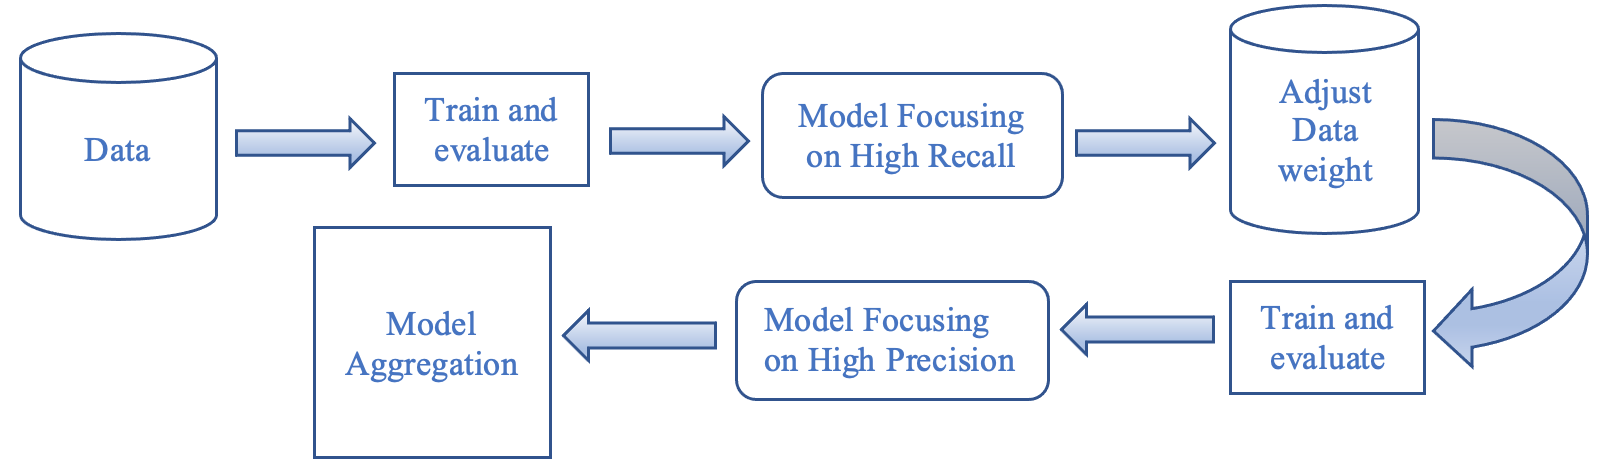
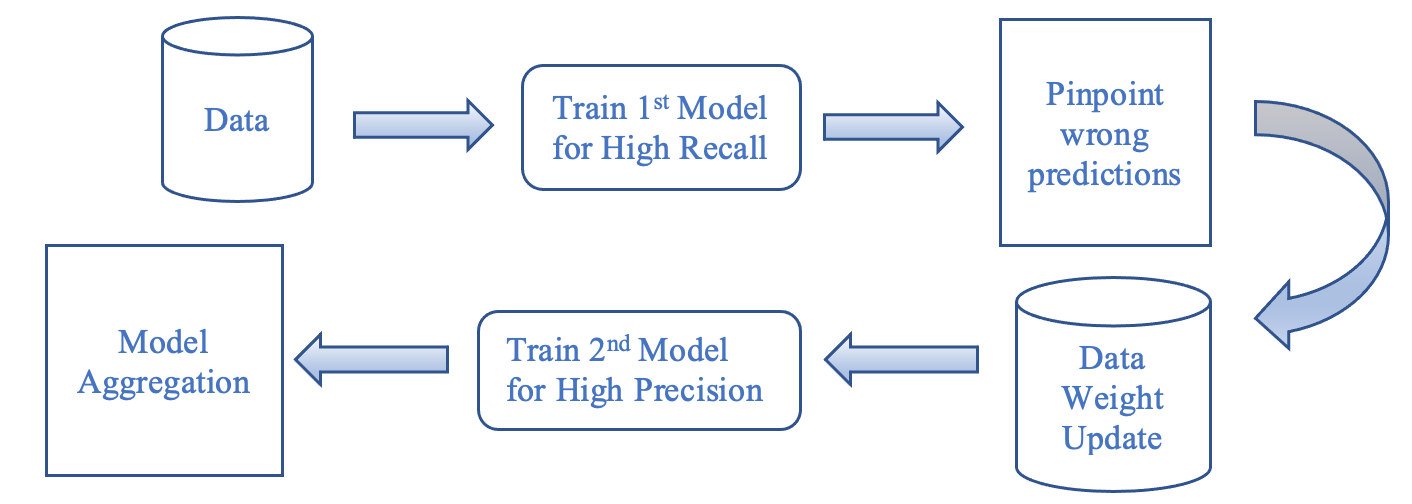
add diagram for model stacking

diff --git a/readme.md b/readme.md
@@ -9,7 +9,14 @@ Candidate models are weighted Logistic Regression, Random Forest, LightGBM. It i
 
 To further improve the model’s performance, model stacking and model cascading are implemented. The result shows that:
 - By further stacking models, the meta-learner can achieve the highest Recall (0.772), with above average F1 score (0.082);
+
+    The architecture of model stacking:
+![stack model architecture](https://github.com/YangHong92/Fraud-Transaction-Detection/raw/master/stacking_model_architecture.png)
+
 - By cascading models, the final output shows that the Precision is significantly improved by 5 times (0.218), and achieve the highest F1 score (0.207). Generally speaking, this approach resolves the low precision issue observed in all previous models.
+
+    The architecture of model cascading:
+![cascade model architecture](https://github.com/YangHong92/Fraud-Transaction-Detection/raw/master/cascade_model_architecture.png)
 
 ## Project Highlight
 -	Given data distribution, proposed hypothesis while doing EDA
